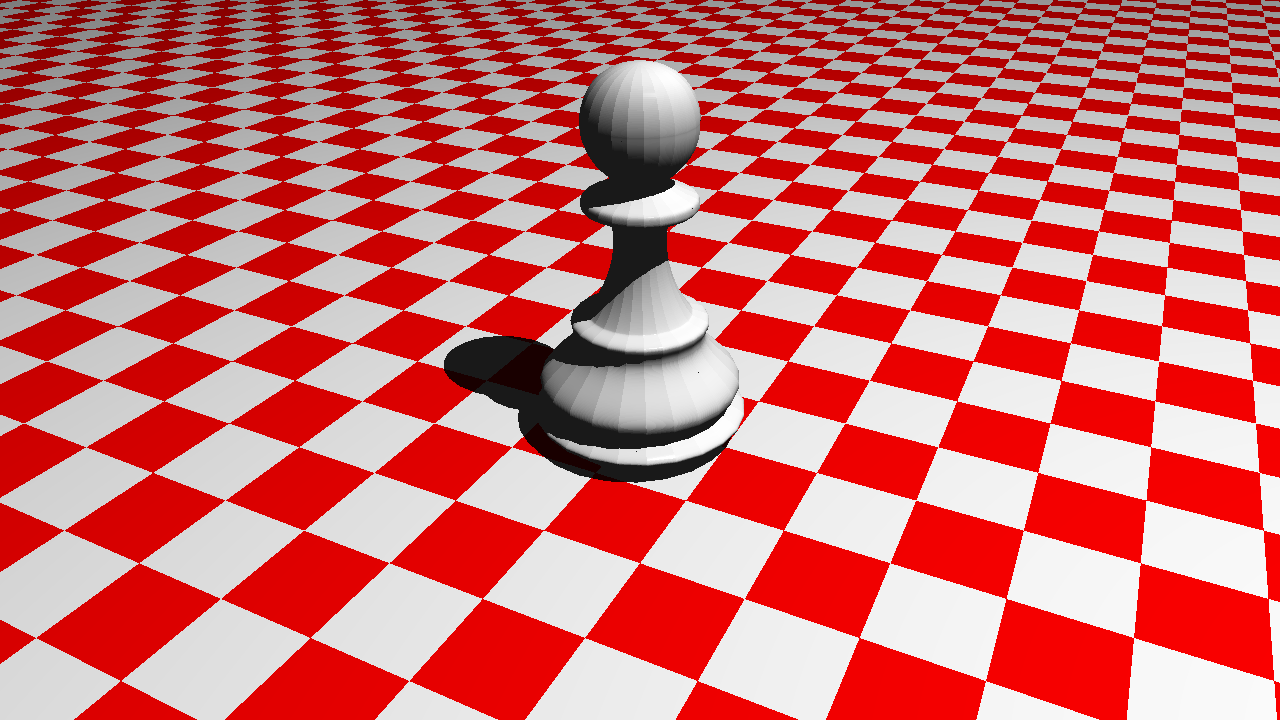
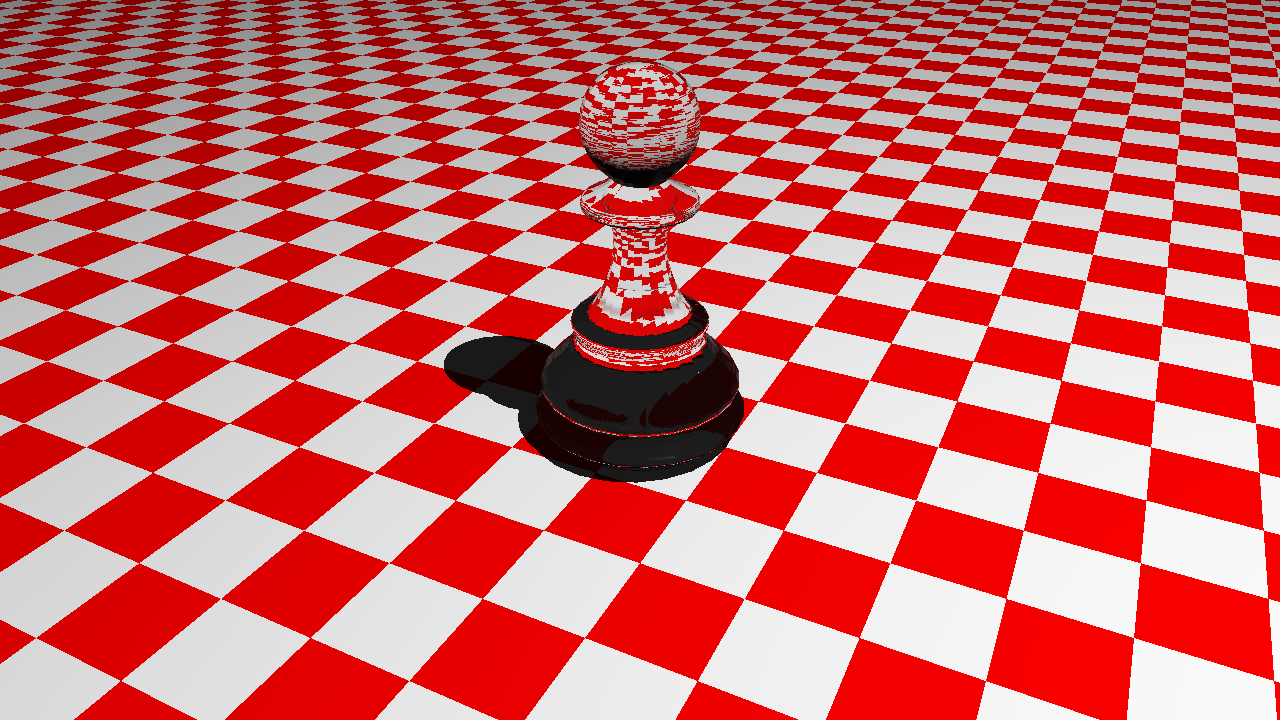
Chapter 15 - glass pawn - shadows an issue

Changed region(s): [[0.4062, 0.0611, 0.5938, 0.6722]]

diff --git a/demo-lib/src/test_scenes/teapot.rs b/demo-lib/src/test_scenes/teapot.rs
@@ -16,6 +16,7 @@ use ray_tracer::view_matrix::ViewMatrix;
 use ray_tracer::world::World;
 use std::default::Default;
 use std::fs;
+use ray_tracer::material::Material;
 
 pub struct Teapot {}
 
@@ -155,7 +156,8 @@ impl Teapot {
         for t in g.iter() {
             let points = obj.points.of(t);
             aabb.push_points(&points);
-            let triangle = Shape::new_triangle(Triangle::new(points[0], points[1], points[2]));
+            let mut triangle = Shape::new_triangle(Triangle::new(points[0], points[1], points[2]));
+            triangle.material = Material::glass();
             teapot_part.add(triangle);
 
             if aabb.3 > 300 {
